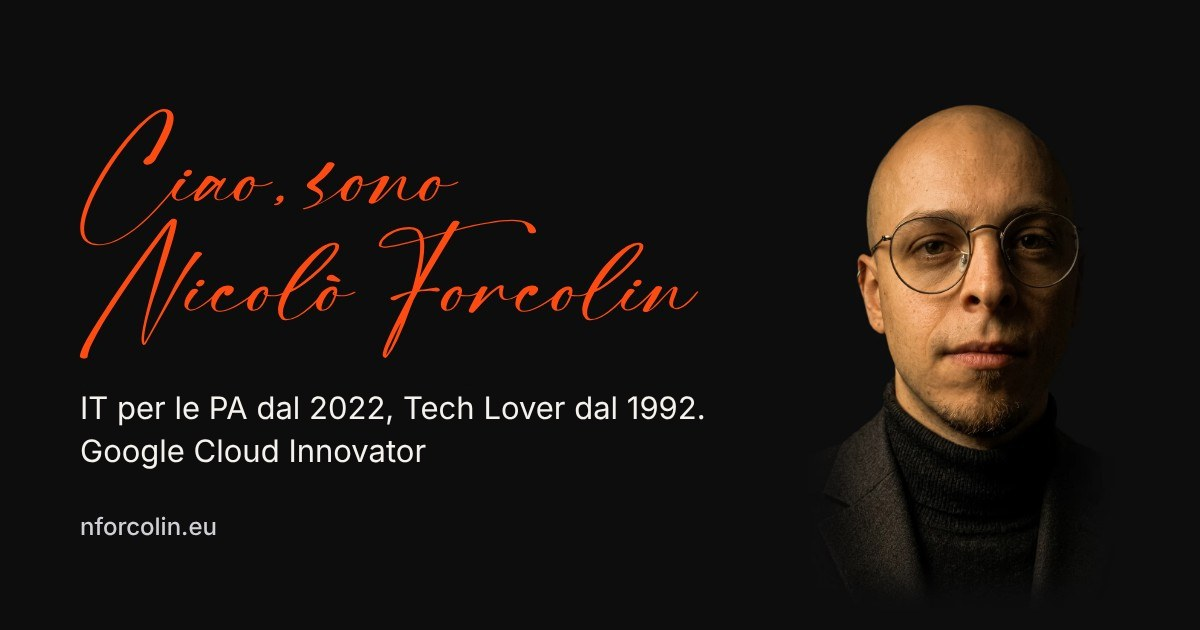
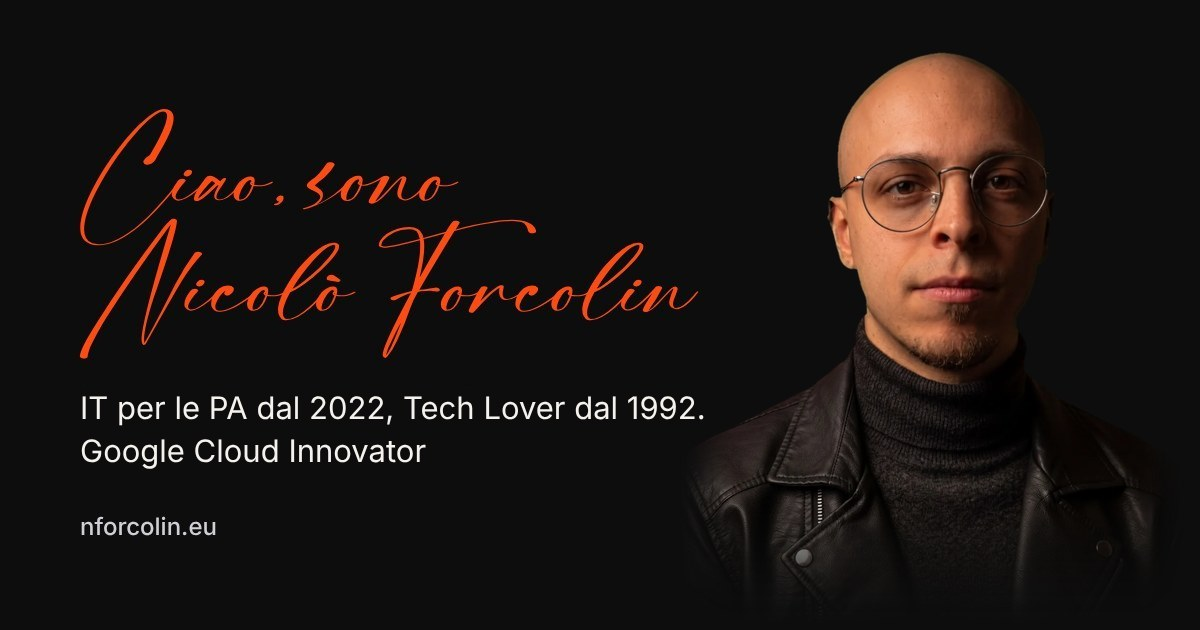
Home in stile Otto Climan: ritratto con giubbotto di pelle, sopra il testo
- Nuovo ritratto a colori (giubbotto di pelle), ritagliato sul nero del sito, con bordi e fondo sfumati
- Mobile: barra sempre visibile, ritratto sotto la barra e poi saluto e presentazione; niente schermata d'ingresso a tutto schermo
- Desktop: ritratto a destra, allineato alla colonna
- Rimosso il codice dell'ingresso (entry, scroll-btn, nav-on, foto mobile) e le regole CSS sovrapposte dell'hero
- og-home.jpg con il nuovo ritratto; BRAND.md e test aggiornati

Claude-Session: https://claude.ai/code/session_013V1PHsXmyXHJ8mUMRufPdc

Changed region(s): [[0.5858, 0.0603, 0.8942, 0.9048], [0.925, 0.7841, 0.9558, 0.8444]]

diff --git a/portfolio-redesign.css b/portfolio-redesign.css
@@ -86,17 +86,17 @@ h2,h3{font-family:var(--sans);font-weight:700;letter-spacing:-.045em}
 .hero{padding:0;background:var(--bg);overflow:visible}
 .hero-inner{position:relative;min-height:80vh;display:flex;align-items:center;padding:132px 0 72px}
 .hero-overlay{position:relative;z-index:2;max-width:560px}
-/* True full-bleed background: this photo already has its own wide dark
-   backdrop on the left for the text to sit on, so it needs no CSS fade
-   trick — it covers the whole hero edge to edge (true viewport edges,
-   not just the centred wrap/editorial-shell ancestors) and reaches the
-   top so it continues behind the floating header. */
-.hero-photo-frame{position:absolute;inset:0;left:calc(50% - 50vw + var(--sb,0px)/2);right:calc(50% - 50vw + var(--sb,0px)/2);z-index:1;overflow:hidden;pointer-events:none}
-.hero-portrait{width:100%;height:100%;object-fit:cover;object-position:100% center;display:block}
-/* The wall texture behind the text varies in tone, unlike a flat colour —
-   a scrim keeps the text reliably legible regardless of what's under it,
-   fading out before the subject so the portrait itself stays unobscured. */
-.hero-photo-frame::before{content:"";position:absolute;inset:0;background:linear-gradient(to right,rgba(10,9,8,.62) 0%,rgba(10,9,8,.32) 42%,rgba(10,9,8,0) 68%)}
+/* Ritratto ritagliato, senza sfondo: sta sul nero del sito, a destra nella colonna.
+   Sotto i 700px sta sopra il testo, a tutta larghezza. */
+.hero-photo-frame{position:absolute;top:88px;right:0;bottom:0;width:clamp(240px,34vw,560px);z-index:1;pointer-events:none}
+.hero-portrait{display:block;width:100%;height:100%;object-fit:contain;object-position:right bottom}
+@media(min-width:1100px){.hero-photo-frame{width:min(44%,560px)}}
+@media(max-width:700px){
+ .topbar{position:relative;background:var(--bg);border-bottom:1px solid var(--line)}
+ .hero-inner{display:flex;flex-direction:column;min-height:0}
+ .hero-photo-frame{position:static;width:100%;order:-1}
+ .hero-portrait{height:auto;object-fit:fill}
+}
 /* Full-bleed row like the photo above it: .hero sits inside
    .editorial-shell's centred, padded 1280px container, so without this
    the filmstrip stops at that container's edges instead of reaching the
@@ -105,16 +105,6 @@ h2,h3{font-family:var(--sans);font-weight:700;letter-spacing:-.045em}
 .filmstrip-title{color:var(--ink)}
 @media(max-width:820px){
  .hero-inner{padding:96px 0 48px;min-height:70vh}
-}
-@media(max-width:700px){
- /* The floating transparent header only works once the photo bleeds
-    behind it; on the stacked mobile layout it would just sit over a
-    now-static photo block, so it goes back to a solid, in-flow bar. */
- .topbar{position:relative;background:var(--bg);border-bottom:1px solid var(--line)}
- .hero-inner{display:flex;flex-direction:column;min-height:0}
- .hero-photo-frame{inset:auto;height:min(420px,58vh);order:-1}
- /* The mobile crop is pre-composed wider than the subject so a cover
-    fit reaches both edges without cutting into the face. */
 }
 
 /* Home links to the project pages: orange text, at least 44px tall to tap. */
@@ -144,99 +134,42 @@ button.hero-link{padding:0;border:0;background:none;cursor:pointer}
 .hero-cta-row{align-items:center}
 .filmstrip-title{font-size:1.375rem;font-weight:500;line-height:1.2}
 .filmstrip-meta{line-height:1.45}
-.hero-portrait{filter:none}
-@media(min-width:701px){.hero-inner{min-height:min(800px,80vh)}.hero-overlay{padding-block:28px}.hero-photo-frame{inset-block:0}}
+@media(min-width:701px){.hero-inner{min-height:min(800px,80vh)}.hero-overlay{padding-block:28px}}
 @media(max-width:700px){
  .hero-inner{padding:0 0 36px;gap:0}
- .hero-photo-frame{height:clamp(260px,53vw,420px)}
  .hero-overlay{padding:28px var(--editorial-gutter) 0}
  .hero-cta-row{gap:10px 18px}
 }
 @media(max-width:380px){.hero-overlay{padding-inline:20px}}
 
-/* Mobile portrait: preserve headroom without affecting desktop composition. */
-@media(max-width:700px){
- .hero-photo-frame{height:clamp(300px,68vw,480px)}
- .hero-portrait{width:100%}
-}
 
 /* Compact colophon, 2026-10. */
 .colophon{margin-top:0;padding:24px 0 30px;border-top:0;background:transparent}
 .colophon-inner{gap:0}
 .footer-note{padding:18px 0 0}
 
-/* Mobile: make portrait flush with viewport, removing contain letterboxing. */
-@media(max-width:700px){
- .hero-photo-frame{margin-left:calc((var(--sb,0px) - 100vw)/2);height:clamp(330px,92vw,560px)}
- .hero-photo-frame picture{display:block}
- .hero-photo-frame .hero-portrait{display:block;max-width:none}
-}
 
 /* Final mobile image treatment: flush crop, controlled headroom, brighter midtones. */
 @media(max-width:700px){
  .hero-inner{width:100%;max-width:none;margin:0}
- .hero-photo-frame{height:clamp(350px,105vw,580px)}
- .hero-photo-frame picture{width:100%;height:100%}
- .hero-photo-frame .hero-portrait{width:100%;height:100%;object-fit:cover;object-position:center 32%}
 }
 
-/* Desktop: use one viewport-aligned rail, with a soft portrait-to-page fade. */
-@media(min-width:701px){
- .hero-photo-frame{left:calc(50% - 50vw + var(--sb,0px)/2);right:calc(50% - 50vw + var(--sb,0px)/2);width:calc(100vw - var(--sb,0px));max-width:none;overflow:hidden}
-}
 
-/* Mobile: softly merge the portrait into the surrounding dark page. */
-@media(max-width:700px){
- .hero-photo-frame{isolation:isolate}
- .hero-photo-frame::before{content:none}
- .hero-photo-frame::after{
-  content:"";position:absolute;inset:0;z-index:2;pointer-events:none;
-  background:
-   linear-gradient(to right,var(--bg) 0%,rgba(23,22,27,.28) 7%,transparent 20%,transparent 80%,rgba(23,22,27,.28) 93%,var(--bg) 100%),
-   linear-gradient(to bottom,transparent 68%,rgba(23,22,27,.22) 82%,var(--bg) 100%);
- }
-}
-
-/* Restore portrait visibility on desktop: keep fade confined to text side. */
-@media(min-width:701px){
- .hero-photo-frame .hero-portrait{object-position:right center}
-}
-
-/* Desktop final: progressive feathering around the portrait, not over the face. */
 
 /* Final editorial refinements: real progressive fades, restrained copy and footer. */
 @media(min-width:701px){
  .hero-overlay{max-width:min(56vw,800px)}
- .hero-photo-frame::after{
-  content:"";position:absolute;inset:0;z-index:2;pointer-events:none;
- }
 }
 
 .colophon{padding-bottom:16px}
 .footer-note{line-height:1.4}
 @media(max-width:700px){.colophon{padding:12px 0 18px}.footer-note{padding-top:12px}}
 
-/* Feather the photograph's right edge; preserve the face and the timeline rail. */
-
-/* The portrait's right edge is feathered into the page colour inside
-   photo.webp itself, so no CSS fade is needed over the face. */
-@media(min-width:701px){
- .hero-photo-frame::after{
-  background:
-   linear-gradient(to right,var(--bg) 0%,rgba(23,22,27,.96) 12%,rgba(23,22,27,.76) 24%,rgba(23,22,27,.36) 35%,rgba(23,22,27,.08) 45%,transparent 54%),
-   linear-gradient(to bottom,rgba(23,22,27,.26) 0%,transparent 18%,transparent 74%,rgba(23,22,27,.12) 83%,rgba(23,22,27,.55) 94%,var(--bg) 100%);
- }
-}
 
 /* Unified dark surfaces: hero, project strip and footer share one ground. */
 :root[data-theme="dark"]{--bg:#0D0D0E;--bg-2:#0D0D0E;--line:#262628}
 :root[data-theme="dark"] body,:root[data-theme="dark"] .hero,:root[data-theme="dark"] .colophon{background:var(--bg)}
 :root[data-theme="dark"] .footer-note{border-color:var(--line)}
-/* Keep portrait fades calibrated to the new, unified background. */
-:root[data-theme="dark"] .hero-photo-frame::after{background:
- linear-gradient(to right,#0D0D0E 0%,rgba(13,13,14,.96) 12%,rgba(13,13,14,.76) 24%,rgba(13,13,14,.36) 35%,rgba(13,13,14,.08) 45%,transparent 54%),
- linear-gradient(to bottom,rgba(13,13,14,.26) 0%,transparent 18%,transparent 74%,rgba(13,13,14,.12) 83%,rgba(13,13,14,.55) 94%,#0D0D0E 100%)}
-@media(max-width:700px){:root[data-theme="dark"] .hero-photo-frame::after{background:linear-gradient(to right,#0D0D0E 0%,rgba(13,13,14,.28) 7%,transparent 20%,transparent 80%,rgba(13,13,14,.28) 93%,#0D0D0E 100%),linear-gradient(to bottom,transparent 68%,rgba(13,13,14,.22) 82%,#0D0D0E 100%)}}
 
 
 /* Keep the original header dimensions; size the lower strip to match it. */
@@ -259,58 +192,7 @@ button.hero-link{padding:0;border:0;background:none;cursor:pointer}
 /* Case study readability and keyboard accessibility */
 .desktop-nav a:focus-visible{outline:3px solid var(--accent);outline-offset:4px}
 
-/* Desktop: slide the portrait left, closer to the headline. The right edge
-   of photo.webp is already feathered into the page colour, so the strip it
-   uncovers blends in with the background. */
-@media(min-width:701px) and (max-width:1099px){.hero-photo-frame .hero-portrait{transform:translate(4vw,-6%)}}
-@media(min-width:701px) and (max-width:900px){.hero-photo-frame .hero-portrait{transform:translate(17vw,-6%)}}
-@media(min-width:1100px){.hero-photo-frame .hero-portrait{transform:translate(-4vw,-6%)}}
-@media(min-width:1400px){.hero-photo-frame .hero-portrait{transform:translate(-9vw,-6%)}}
 
-/* Mobile landing: the first screen is the portrait alone, fixed to the
-   viewport. The rest of the page (text, project rows, footer) has an opaque
-   background and slides up over it, so once the page has scrolled the portrait
-   is gone. My name in the orange signature (an identity mark, with no
-   interaction of its own) sits at the bottom edge above a short orange line
-   ending in a dot; "Entra nel sito" stays for screen readers. The script's
-   tall N and F weigh its ink to the left, so the name is nudged right by
-   .12em to sit optically on the same axis as the mark; the block keeps
-   clear of the phone's home indicator. The link's
-   ::before stretches over the whole screen (the press effect is on the inner
-   mark, since a transform on the link would shrink it), so a tap
-   anywhere on the landing jumps to the text. Everything fades out
-   together with the portrait as soon as the page scrolls (.nav-on). The photo
-   frame ignores the pointer, hence pointer-events on the link. */
-.hero-entry{display:none}
-@media(max-width:700px){
- .hero-photo-frame{position:fixed;top:0;left:0;right:0;width:100%;max-width:none;margin:0;height:100svh;z-index:1;overflow:hidden}
- .hero-inner{padding-top:100svh;padding-bottom:0}
- .hero-overlay{align-self:flex-start;display:flex;flex-direction:column;justify-content:center;background:var(--bg);min-height:100svh;width:calc(100vw - var(--sb,0px));max-width:none;margin-left:calc(50% - 50vw + var(--sb,0px)/2);padding:72px clamp(20px,4vw,64px) calc(32px + env(safe-area-inset-bottom))}
- .colophon{position:relative;z-index:2;background:var(--bg)}
- .hero-portrait{height:113%!important;object-fit:cover;object-position:center 22%;transform:translateY(-12%)}
- .hero-photo-frame{background:var(--bg)}
- .hero-entry{display:flex;flex-direction:column;align-items:center;gap:18px;position:absolute;z-index:3;left:0;right:0;bottom:max(52px,calc(env(safe-area-inset-bottom) + 28px));padding:0 20px;pointer-events:none}
- .hero-entry-name{font-family:var(--signature);font-size:min(3.25rem,12.5vw);line-height:1.25;color:var(--accent);white-space:nowrap;transform:translateX(.12em)}
- .scroll-btn{pointer-events:auto;text-decoration:none}
- .scroll-btn::before{content:"";position:fixed;inset:0}
- .entry-mark{position:relative;display:flex;flex-direction:column;align-items:center;justify-content:center;gap:0;width:48px;height:48px;color:var(--accent);transition:transform 120ms ease-out}
- .entry-line{width:1.5px;height:18px;border-radius:1px;background:currentColor;animation:entry-line 280ms ease-out both}
- .entry-dot{width:6px;height:6px;border-radius:50%;background:currentColor;animation:entry-dot 160ms ease-out 240ms both}
- .scroll-btn:active .entry-mark{transform:scale(.97)}
- .hero-photo-frame{transition:opacity 200ms ease-out,visibility 0s linear 200ms}
- body.nav-on .hero-photo-frame{opacity:0;visibility:hidden}
-}
-
-/* Mobile landing: the first screen is the portrait. The top bar slides in
-   once the page scrolls (script.js toggles .nav-on), and shows whenever focus
-   is inside it. Without script it stays in normal flow above the photo. */
-@media(max-width:700px){
- body.nav-auto .topbar{position:fixed;top:0;left:0;right:0;z-index:30;transform:translateY(-100%);opacity:0;pointer-events:none;transition:transform 240ms ease-out,opacity 240ms ease-out}
- body.nav-auto.nav-on .topbar,body.nav-auto .topbar:focus-within{transform:none;opacity:1;pointer-events:auto}
-}
-@media(prefers-reduced-motion:reduce){
- body.nav-auto .topbar{transform:none;transition:opacity 200ms ease-out}
-}
 
 /* The full-bleed rows (hero photo, project strip) are 100vw wide, and 100vw
    counts the vertical scrollbar. script.js sets --sb to the scrollbar width and
@@ -328,7 +210,6 @@ button.hero-link{padding:0;border:0;background:none;cursor:pointer}
 .hero-intro a{color:inherit;text-decoration:underline;text-underline-offset:.14em;text-decoration-thickness:.06em}
 @media(max-width:700px){.hero-name{font-size:clamp(1.75rem,9vw,2.9rem);max-width:none}.hero-intro{max-width:29em;margin-bottom:28px}}
 .hero-name{scroll-margin-top:28px}
-#hero-text{scroll-margin-top:calc(0px - var(--nav-offset,80px))}
 
 /* Motion: the portrait is revealed once when the page loads, and browsers that
    support cross-document view transitions fade between pages while the top bar
@@ -336,10 +217,6 @@ button.hero-link{padding:0;border:0;background:none;cursor:pointer}
    change without a transition. */
 @keyframes portrait-reveal{from{clip-path:inset(0 0 100% 0);opacity:0}to{clip-path:inset(0);opacity:1}}
 @keyframes portrait-fade{from{opacity:0}to{opacity:1}}
-/* Mobile entry mark: the line draws downward once, then the dot appears. */
-@keyframes entry-line{from{clip-path:inset(0 0 100% 0)}to{clip-path:inset(0)}}
-@keyframes entry-dot{from{opacity:0;transform:scale(.95)}to{opacity:1;transform:none}}
-@media(prefers-reduced-motion:reduce){.entry-line{animation:none}.entry-dot{animation-name:portrait-fade}}
 .hero-portrait{animation:portrait-reveal 300ms ease-out backwards}
 @media(prefers-reduced-motion:reduce){.hero-portrait{animation-name:portrait-fade}}
 @media(prefers-reduced-motion:no-preference){
@@ -378,9 +255,6 @@ main.editorial-content{padding-bottom:0}
    same side padding), so their edges line up with the hero text. */
 .topbar-inner,.colophon-inner{max-width:1280px;margin-inline:auto;padding-inline:clamp(20px,4vw,64px)}
 
-/* Desktop: the portrait is a little taller and sits higher; the extra height
-   keeps its bottom edge past the bottom of the frame. */
-@media(min-width:701px){.hero-photo-frame .hero-portrait{height:108%}}
 
 /* Very large screens: the header, hero and footer share the scaled column. */
 @media(min-width:1921px){
@@ -391,7 +265,6 @@ main.editorial-content{padding-bottom:0}
 /* Mobile: the four links form a bar fixed to the bottom once the landing is left. */
 @media(max-width:700px){
  .hero-cta-row{position:fixed;left:0;right:0;bottom:0;z-index:50;margin:0;gap:0 20px;flex-wrap:nowrap;background:var(--bg);border-top:1px solid var(--line);padding:2px clamp(20px,4vw,64px) calc(10px + env(safe-area-inset-bottom))}
- body[data-page="home"]:not(.nav-on) .hero-cta-row{opacity:0;pointer-events:none}
  body[data-page="home"]{padding-bottom:calc(56px + env(safe-area-inset-bottom))}
 }
 

diff --git a/index.html b/index.html
@@ -89,7 +89,7 @@
 <div class="editorial-shell"><main class="editorial-content">
 <section class="hero" id="profilo" aria-labelledby="hero-name">
   <div class="hero-inner wrap">
-    <div class="hero-overlay" id="hero-text">
+    <div class="hero-overlay">
       <h1 class="hero-name" id="hero-name"><span class="hero-hi" data-i18n="hero_hi">Ciao, sono</span> <span class="hero-fn">Nicolò Forcolin</span></h1>
       <div class="hero-intro" id="heroIntro"><p>IT per le PA dal <strong>2022</strong>, Tech Lover dal <strong>1992</strong>.</p><p>Porto l’Intelligenza Artificiale nei flussi operativi reali: assistenti AI che rispondono dai documenti aziendali, modelli che girano in casa e team formati sul campo.</p></div>
       <div class="hero-cta-row">
@@ -100,12 +100,7 @@
       </div>
     </div>
     <div class="hero-photo-frame">
-      <div class="hero-entry"><span class="hero-entry-name" aria-hidden="true">Nicolò Forcolin</span><a class="scroll-btn" href="#hero-text"><span class="visually-hidden" data-i18n="scroll_btn">Entra nel sito</span><span class="entry-mark" aria-hidden="true"><span class="entry-line"></span><span class="entry-dot"></span></span></a></div>
-      <picture>
-        <source media="(max-width:700px)" srcset="photo-mobile.webp?v=31" type="image/webp">
-        <source srcset="photo.webp?v=31" type="image/webp">
-        <img class="hero-portrait" id="avatarPhoto" src="photo.webp?v=31" alt="Nicolò Forcolin" width="4000" height="1696" fetchpriority="high">
-      </picture>
+      <img class="hero-portrait" id="avatarPhoto" src="photo.webp?v=32" alt="Nicolò Forcolin" width="1039" height="1240" fetchpriority="high">
     </div>
   </div>
 </section>

diff --git a/script.js b/script.js
@@ -228,7 +228,6 @@
       badge3_meta:"Stato del programma, 2026",
       nav_main_label:"Navigazione principale",
       nav_toggle_label:"Menu",
-      scroll_btn:"Entra nel sito",
       c2_lead:"Un test su modelli AI aperti, addestrati su domande specifiche e usati in locale, senza inviare dati all’esterno.",
       initiatives_lead:"Le credenziali e i programmi Google a cui partecipo, con il loro stato.",
       advisory_label:"Advisory esterna",
@@ -480,7 +479,6 @@
       badge3_meta:"Program status, 2026",
       nav_main_label:"Main navigation",
       nav_toggle_label:"Menu",
-      scroll_btn:"Enter the site",
       c2_lead:"A test of open AI models trained on specific questions and run locally, without sending data outside.",
       initiatives_lead:"The Google credentials and programmes I take part in, with their status.",
       advisory_label:"External advisory",
@@ -769,14 +767,6 @@
         menuToggle.focus();
       }
     });
-  }
-
-  /* Home su mobile: la barra in alto compare solo dopo un piccolo scroll */
-  if(document.body.getAttribute("data-page") === "home"){
-    document.body.classList.add("nav-auto");
-    var syncNav = function(){ document.body.classList.toggle("nav-on", window.scrollY > 24); };
-    window.addEventListener("scroll", syncNav, {passive:true});
-    syncNav();
   }
 
   setLang(lang);

diff --git a/tests/site-regression.test.js b/tests/site-regression.test.js
@@ -70,8 +70,8 @@ assert(home.includes('id="heroIntro"'), 'Hero intro paragraph missing');
 for (const language of ['it', 'en']) assert(dictionaries[language].includes('hero_intro:'), language + ': hero intro missing');
 assert(home.includes('data-i18n="skip_to_content"'), 'Skip link must be translated');
 assert(home.includes('href="progetti.html"') && home.includes('class="hero-link"') && home.includes('hero-link contact-trigger'), 'Hero links must reach the projects page and open the contacts');
-assert(home.includes('srcset="photo.webp?v=31"'), 'New portrait must be displayed');
-assert(home.includes('srcset="photo-mobile.webp?v=31"'), 'Mobile portrait crop must be displayed');
+assert(home.includes('src="photo.webp?v=32"'), 'New portrait must be displayed');
+assert(!fs.existsSync(path.join(root, 'photo-mobile.webp')), 'The mobile crop is no longer used');
 assert(!home.includes('class="info-dialog"'), 'Project dialogs were replaced by pages');
 
 assert(read('rag-aziendale.html').includes('data-i18n="c1_summary"'), 'RAG summary must remain');

diff --git a/i18n-zh.js b/i18n-zh.js
@@ -227,7 +227,6 @@ window.NF_I18N.zh = {
   badge3_meta: "项目状态，2026 年",
   nav_main_label: "主导航",
   nav_toggle_label: "菜单",
-  scroll_btn: "进入网站",
   c2_lead: "一项测试：用针对特定问题训练的开源 AI 模型，在本地运行，不向外部发送数据。",
   initiatives_lead: "我参与的 Google 资质和计划，以及各自的状态。",
   advisory_label: "外部咨询",

diff --git a/BRAND.md b/BRAND.md
@@ -61,7 +61,7 @@ Un solo tema, scuro: il sito non cambia colori in base alle preferenze del siste
 | `--ink` | `#F5F1EC` | Testo principale, bianco caldo |
 | `--ink-soft` | `#D2CED6` | Testo secondario |
 | `--line` | `#262628` | Separazioni |
-| `--accent` | `#FF4A11` | Arancione: titoli di pagina e di sezione, firma, link, date e stati, segno d'ingresso su mobile |
+| `--accent` | `#FF4A11` | Arancione: titoli di pagina e di sezione, firma, link, date e stati |
 | `--accent-hover` | `#FF6B3D` | Arancione al passaggio e alla pressione |
 
 Altri valori fissi: `#18181A` per lo sfondo della striscia dei progetti al passaggio e dei pannelli che si aprono dalla barra (menu, lingue, ricerca), con bordo `#262628`, angoli da 16px (righe e campo da 12px) e voce evidenziata `#242427`; `#0D0D0E` anche come `theme-color` delle pagine e nel manifest dell'app.
@@ -70,9 +70,8 @@ Altri valori fissi: `#18181A` per lo sfondo della striscia dei progetti al passa
 
 - Due famiglie: Bodoni Moda per tutti i titoli (pagina, sezione, voci), sans di sistema (Segoe UI / fallback) per testo, menu ed etichette. Non usare Inter.
 - Cinque dimensioni: 16px (menu, etichette, date, note), 18px (testo), 22px (titoli delle voci), 24px (sottotitolo di pagina), 40px (titoli di sezione); il titolo di pagina scala fino a 76px.
-- Destiny Signature (licenza demo, uso non commerciale) solo come firma: "NForcolin" nella barra in alto (bianco), il saluto in home e il nome sulla schermata d'ingresso su mobile (arancione). Gli altri titoli restano in Bodoni Moda.
-- Arancione su un segno grafico: eccezione voluta solo per il segno d'ingresso su mobile (linea corta con punto).
-- Home: saluto su due righe, "Ciao, sono" al 78% del nome e sopra di esso (entrambi nel carattere della firma, arancione); sotto, due righe: "IT per le PA dal 2022, Tech Lover dal 1992." (anni in grassetto) e la frase sul lavoro con RAG, modelli locali on-premise e adozione guidata; poi una riga con Progetti, Risultati (Per chi su mobile) e Contattami, solo testo arancione (su mobile centrate nella barra in basso). Sotto l'hero: Risultati in tre voci (due tempi di gestione, più di 35 colleghi affiancati), Progetti come elenco, e un blocco contatti con la mail da mostrare con un clic. Il ritratto resta a colori.
+- Destiny Signature (licenza demo, uso non commerciale) solo come firma: "NForcolin" nella barra in alto (bianco) e il saluto in home (arancione). Gli altri titoli restano in Bodoni Moda.
+- Home: in alto la barra, sempre visibile; poi il ritratto a colori (foto con il giubbotto di pelle), ritagliato e appoggiato sul nero, con i bordi e il fondo sfumati. Su schermi larghi sta a destra del testo, su mobile sopra. Il testo: saluto su due righe, "Ciao, sono" al 78% del nome e sopra di esso (entrambi nel carattere della firma, arancione); sotto, "IT per le PA dal 2022, Tech Lover dal 1992." (anni in grassetto) e la frase sul lavoro con assistenti AI, modelli in casa e team formati sul campo; poi una riga con Progetti, Risultati (Per chi su mobile) e Contattami, solo testo arancione (su mobile centrate nella barra in basso). Sotto: Risultati in tre voci, Progetti come elenco, e un blocco contatti con la mail da mostrare con un clic. Niente schermata d'ingresso a tutto schermo.
 - "Contattami" a fine pagina: testo nel carattere dei titoli, chiaro, con sottolineatura arancione; un solo invito per schermata.
 - Pagina Hobby: musica, audiofilia, fotografia, orologi, libri e animali, con i link ai profili personali; testi solo con ciò che l'autore ha detto, nessun anno o dato non fornito.
 - Prima i casi studio RAG e Local AI, poi bio e percorso.
